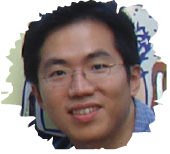
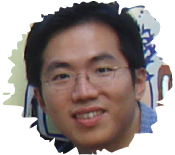
1.修正Joseph頭像 2.加入Terence 	modified:   2014/img/speakers/joseph-ku.png 	new file:   2014/img/speakers/terence_lee.png 	modified:   2014/index.html

diff --git a/2014/index.html b/2014/index.html
@@ -172,6 +172,21 @@
                         <p class="clear"></p>
                     </div>
                     <div class="columns">
+                        <div class="avatar"><img src="img/speakers/terence_lee.png" alt="" /></div>
+                        <div class="intro">
+                            <h3>Terence Lee</h3>
+                            <ul>
+                                <li>twitter: <a href="http://twitter.com/hone02" target="_blank">@hone02</a></li>
+                                <li>bio: Terence works at Heroku maintaining the Ruby stack and a slew of OSS projects such as Ruby and Bundler, as well as helping with the Rails Girls movement. When he's not going to an awesome Heroku or Ruby event, he lives in Austin, TX, the taco capital of America.(Terence loves Friday hugs, EVERY DAY OF THE WEEK! Give him a big one when you see him!)
+                                </li>
+                                <li>subject: How the Principles of Ruby Inspired the Rails Girls Community(joint talk with Linda)
+                                </li>
+                            </ul>
+
+                        </div>
+                        <p class="clear"></p>
+                    </div>
+                    <div class="columns">
                         <div class="avatar"><img src="img/speakers/headius.png" alt="" /></div>
                         <div class="intro">
                             <h3>Charles Oliver Nutter</h3>
